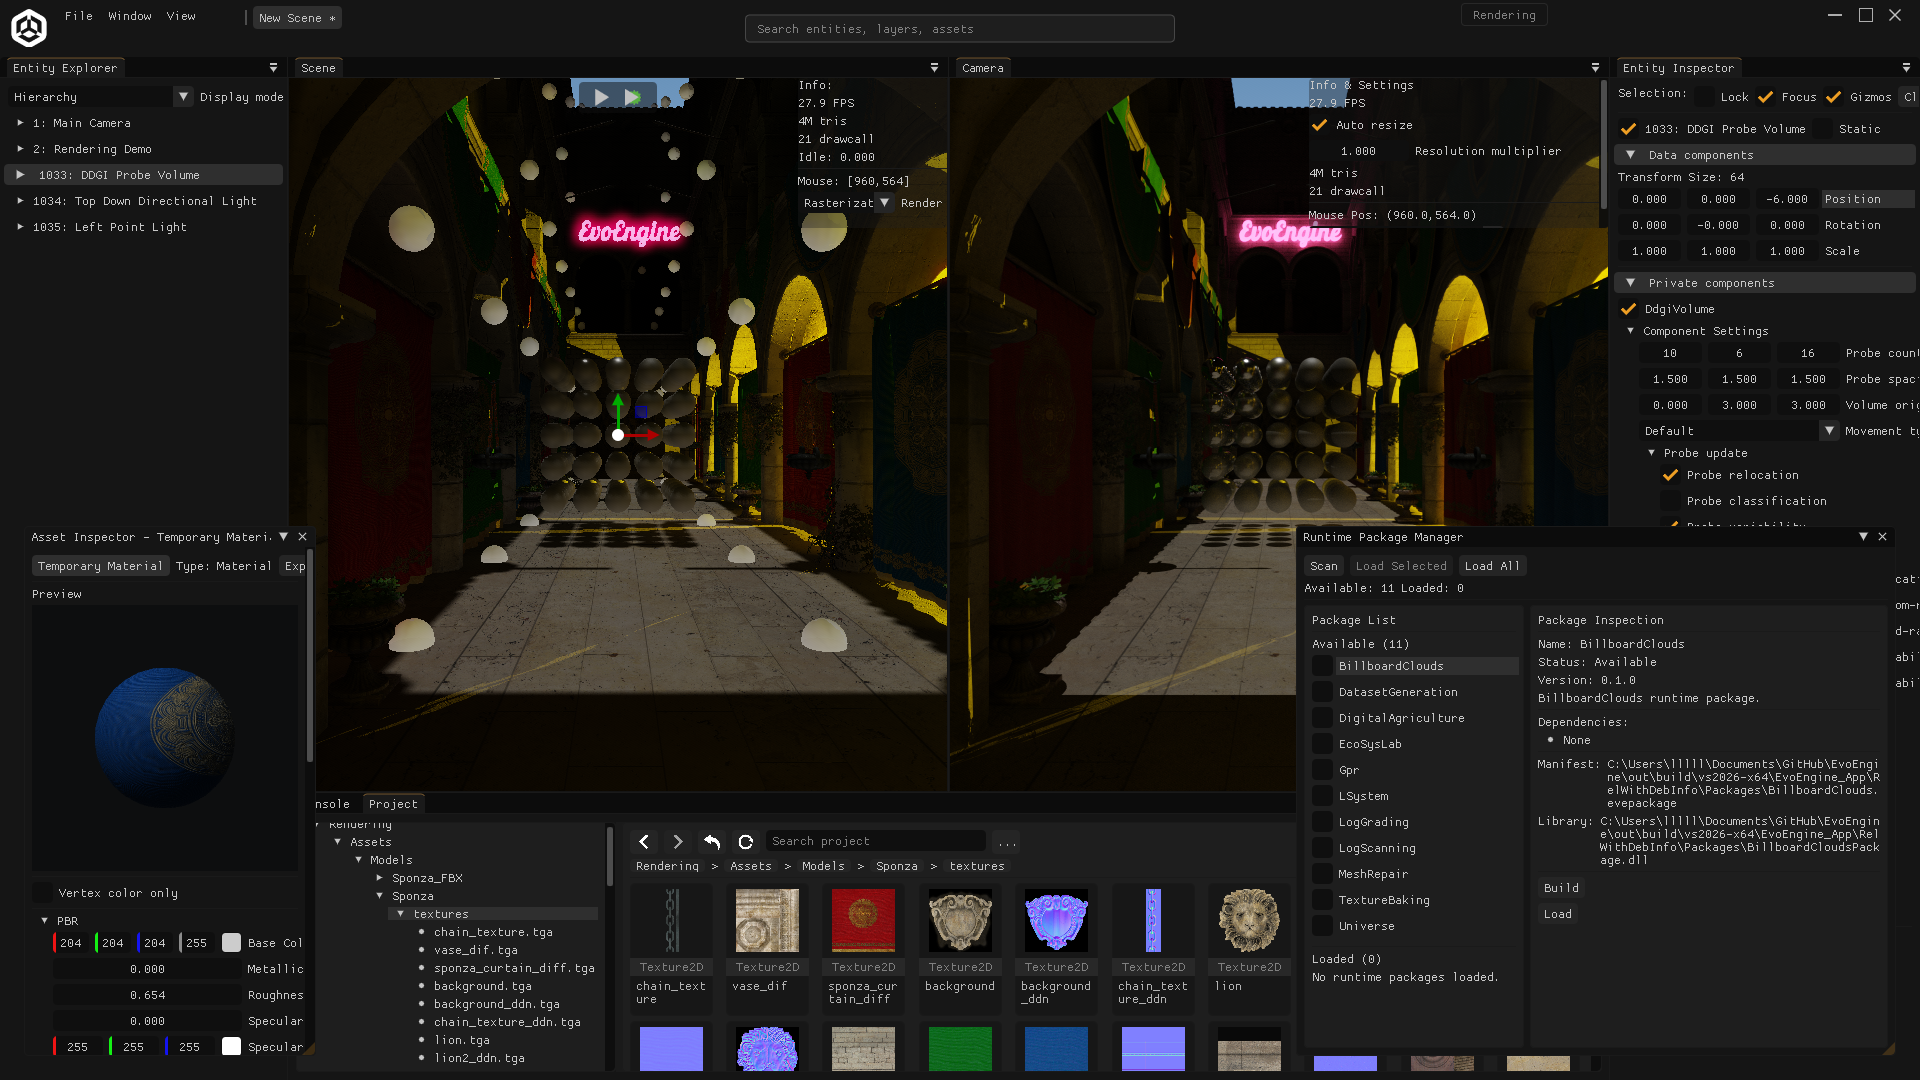
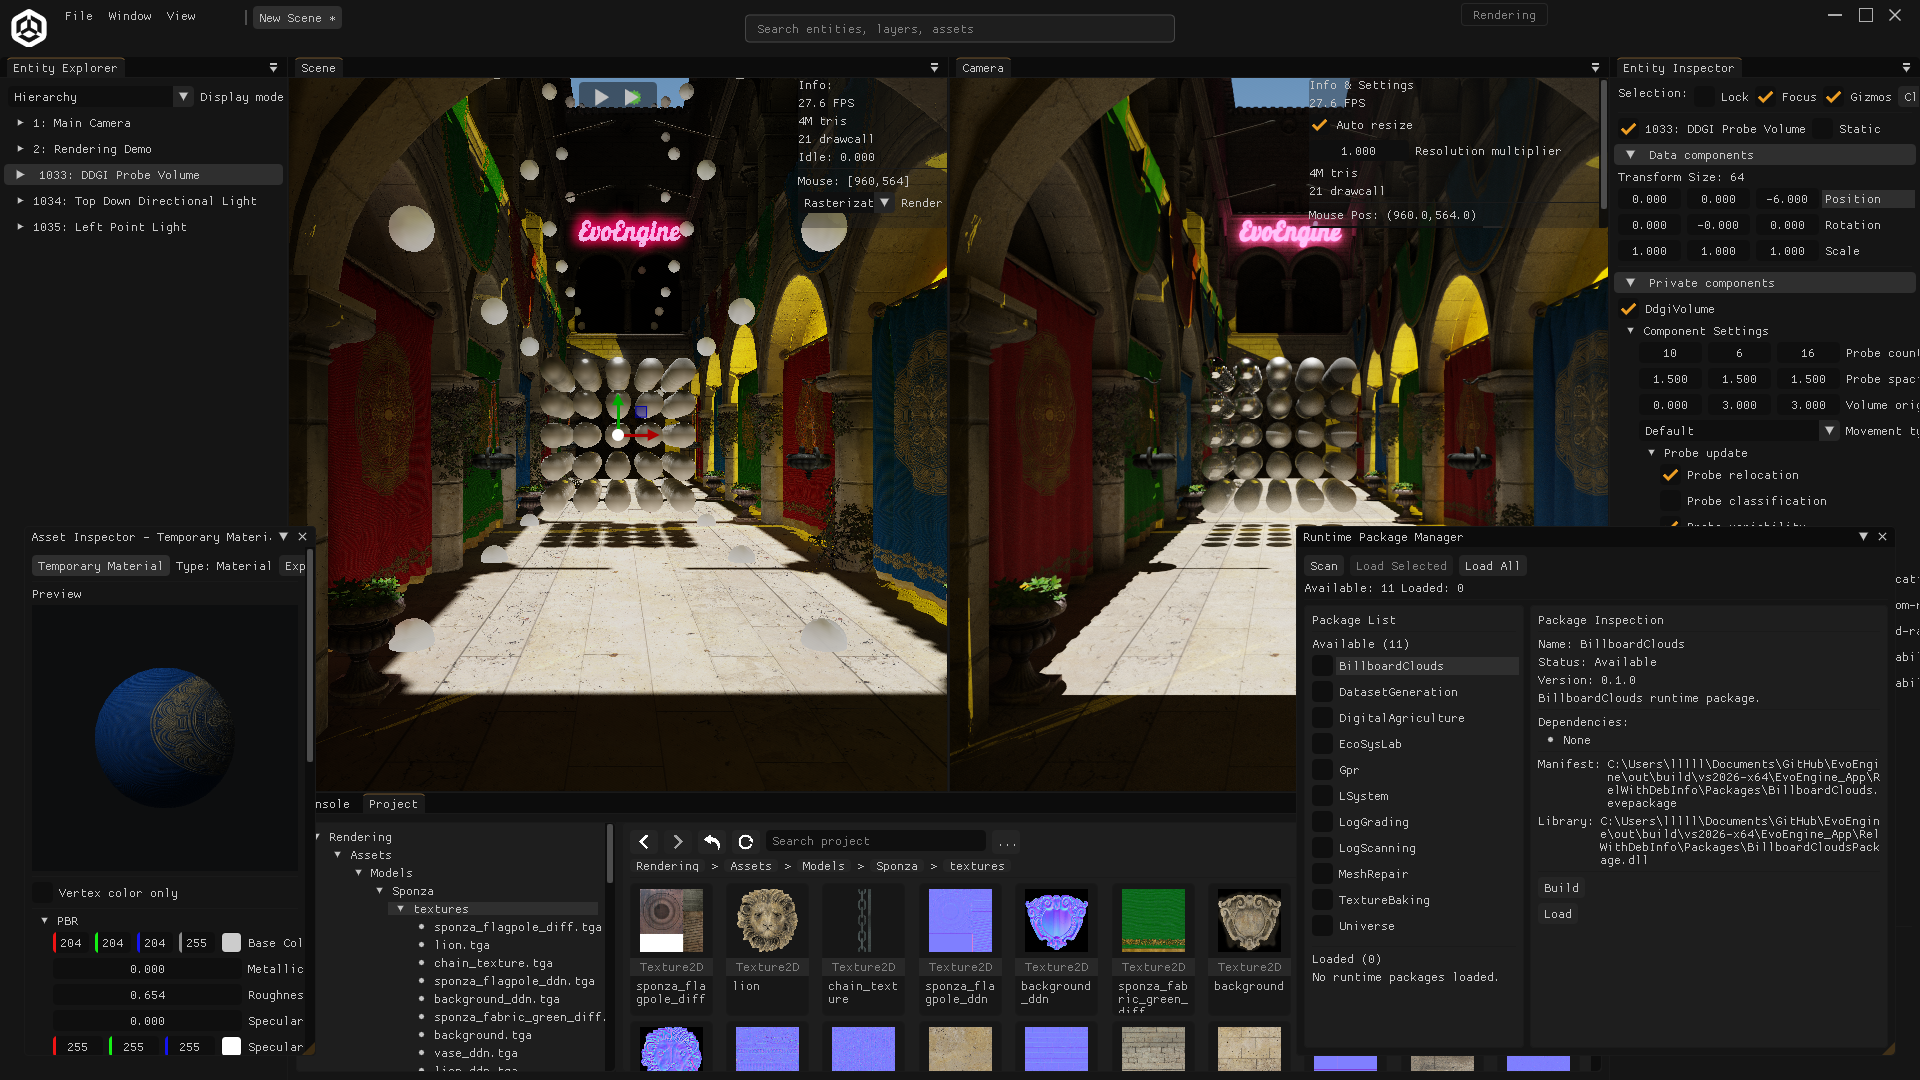
Update rendering demo light and docs

diff --git a/EvoEngine_App/src/DemoApp.cpp b/EvoEngine_App/src/DemoApp.cpp
@@ -321,7 +321,7 @@ int ValidateRenderingDemoDdgiState(Application& application, const DemoAppRuntim
     const auto directional_light = scene->GetOrSetPrivateComponent<DirectionalLight>(owner).lock();
     if (directional_light && directional_light->IsEnabled() && scene->IsEntityEnabled(owner) &&
         scene->GetEntityName(owner) == "Top Down Directional Light") {
-      if (directional_light->diffuse_brightness != 1.0f || directional_light->diffuse != glm::vec3(1.0f) ||
+      if (directional_light->diffuse_brightness != 5.0f || directional_light->diffuse != glm::vec3(1.0f) ||
           !directional_light->cast_shadow) {
         return FailSmokeTest(application, "Rendering demo directional light is not configured");
       }

diff --git a/EvoEngine_App/src/DemoScene.cpp b/EvoEngine_App/src/DemoScene.cpp
@@ -1511,7 +1511,7 @@ void evo_engine::SetupDemoScene(const DemoSetup demo_setup, ApplicationInitializ
         const auto directional_light =
             scene->GetOrSetPrivateComponent<DirectionalLight>(directional_light_entity).lock();
         directional_light->diffuse = glm::vec3(1.0f);
-        directional_light->diffuse_brightness = 1.0f;
+        directional_light->diffuse_brightness = 5.0f;
         directional_light->light_size = 0.01f;
         Transform directional_light_transform;
         directional_light_transform.SetEulerRotation(glm::radians(glm::vec3(90.0f, 0.0f, 0.0f)));

diff --git a/docs/rendering.md b/docs/rendering.md
@@ -188,9 +188,10 @@ Sponza FBX prefab so they do not act as hidden direct lights, leaves the Capoeir
 accumulation, and enables a scene-owned DDGI volume at 10x6x16 probes, 1.5 spacing, local volume origin (0, 3, 3),
 64 rays per probe, 16384 ray samples per frame, 0.02 normal/visibility bias, relocation enabled, classification
 disabled, adaptive ray-sample budgeting enabled, and probe visualization scale 2.0.
-The expected comparison behavior is direct white/yellow scene lighting plus DDGI indirect response, no stale blue probe
-light after reset or disabled lights, scene-camera-only GPU probe visualization, and main-camera ray tracing configured after
-the scene loads for README/smoke setup. The visible yellow point-light sphere is marked non-shadow-casting so DDGI TLAS
+The expected comparison behavior is direct white/yellow scene lighting plus DDGI indirect response, including a
+scene-owned top-down white directional light with brightness 5.0, no stale blue probe light after reset or disabled
+lights, scene-camera-only GPU probe visualization, and main-camera ray tracing configured after the scene loads for
+README/smoke setup. The visible yellow point-light sphere is marked non-shadow-casting so DDGI TLAS
 shadow rays do not treat the light visualizer as an occluder for its own point light. The Rendering Demo smoke path
 validates that editor-mode main-camera ray tracing auto-fits the Camera panel, validates canonical DDGI runtime/volume
 values above, and validates the pre-play yellow

diff --git a/docs/csm_validation.md b/docs/csm_validation.md
@@ -81,9 +81,8 @@ share viewport regions inside each cascade layer:
 - more than four shadow-casting lights recursively subdivide the fourth quadrant, subject to
   `max_directional_light_size`.
 
-This differs from Hazel's reference renderer, which creates per-cascade directional shadow passes over a cascaded depth
-image and renders one primary shadow-casting directional light. EvoEngine keeps its multi-directional-light viewport
-packing, while the diagnostics UI and texel-density debug view expose the effective viewport size.
+The diagnostics UI and texel-density debug view expose the effective directional-light viewport size for the selected
+light.
 
 The active shadow-map quality initializes directional, point, and spot shadow-map resolution fields together. The Shadow
 diagnostics UI displays the active quality, full directional layer size, and packed directional viewport sizes.
